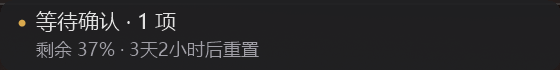
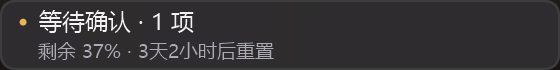
Refresh glass UI demos and native validation notes

Changed region(s): [[0.0, 0.0, 1.0, 1.0], [0.0607, 0.5714, 0.4857, 0.8571]]

diff --git a/docs/validation.md b/docs/validation.md
@@ -8,18 +8,18 @@
 | --- | --- |
 | C# WinForms 旧版，248 × 40 DIP | 已在 Windows 11、175% 缩放下验证真实显示、展开、收起、两次冷启动、重复启动与正常退出；两次主进程退出码均为 0，Node 子进程结束 |
 | Node 数据组件 | 13 项测试通过，覆盖事件归纳、流式回复摘要、工具动作标题、命令内容、重置倒计时、空闲任务标题、等待优先级、失效状态及命名管道传输 |
-| C# 当前源码，320 × 40 DIP | 本次最终 EXE 已启动并复制到项目根目录，使用原快捷方式再次启动；实机预览检查状态点、紧凑空闲布局、三任务列表、系统圆角和深色 Acrylic |
-| 当前原生布局测试 | 闪烁回归先红后绿；本机最终源码通过 13 项数据测试与原生窗口、100% / 175% 布局检查，原生回归连续 10 次通过。本次修复源码 `9c9750d` 的 [GitHub Actions](https://github.com/2cat/CodexPeek/actions/runs/36802150700) 已通过 |
-| 本次启动和交互 | 根目录版本接入实时数据；样式优化阶段验证重复启动退出码为 0，保持一份应用和一份数据组件、Escape 收起、Tab 在任务间移动。本次闪烁修复的最终 EXE 使用日常参数冷启动，并验证入口位于实际任务栏上方 |
+| C# 当前源码，320 × 40 DIP | 最终玻璃版本已部署到项目根目录并以日常参数启动；175% 实机检查入口 Acrylic、圆角边缘、大字号卡片、空闲面板和 12 任务滚动列表 |
+| 当前原生布局测试 | 扩展到玻璃窗口 frame、100% / 175% 布局、显示后无横向滚动、刷新及增删任务保留滚动位置。`017a1a1` 在本机通过原生回归；最终背景绘制源码 `a898fcb` 的测试 EXE 本机被应用控制拦截，其 [Windows CI](https://github.com/2cat/CodexPeek/actions/runs/36803968940) 的 13 项数据测试和全部原生回归通过 |
+| 本次启动和交互 | 根目录最终 EXE 已多次启动；演示模式检查卡片、滚动、Tab 焦点及 Escape 收起，日常启动不带 review / preview 参数。真实任务栏被提升后入口仍可命中，owner 与任务栏一致；重复启动退出码为 0，实时运行保持一份主程序和一份 Node 数据组件 |
 | 开机自启 | 未配置；启动文件夹、Run 注册表和计划任务中未发现此工具的自启项 |
 
 开发机在用本次新版 EXE 的 SHA-256：
 
 ```text
[2 lines of base64/hex data omitted]
 ```
 
[2 lines of base64/hex data omitted]
 
 新文件的信任判定为何不同仍未确认。最终应用可运行不代表每次本地重编译后的文件都会获准运行。新构建需要独立验收，不能沿用旧文件结果。仓库不提交这些二进制；编译器会生成不同的文件标识，不承诺重建出相同 SHA-256。
 
@@ -27,7 +27,7 @@ E5057B27BAB418BA0AECE4946806D1BE82D2F982995CDDC44D8DFEAF0FC23941
 
 旧版在实际 2560 × 1600 桌面、175% 缩放时，任务栏高 84 个物理像素；组件为 434 × 70，位于任务栏现有空间中。额度倒计时和空闲标题已检查实际显示。多任务／等待确认排版使用演示数据验证，未为了测试而制造真实审批操作。
 
-本次新版在相同桌面上，入口为 560 × 70，位置为 `(14,1523)`，保留任务栏现有高度。空闲弹窗为 735 × 280；三任务面板为 735 × 766。无损原生截图用于 README，内容全部为演示数据。先尝试系统 Acrylic，再增加深色底层限制亮背景对次要文字的影响；确认系统圆角、细边框与背景透色，未将 API 返回成功当作视觉验收。
+本次玻璃版本在相同桌面上，入口为 560 × 70，位置为 `(14,1523)`，保留任务栏现有高度。空闲弹窗为 805 × 322；三任务面板为 805 × 917。无损原生截图用于 README，内容全部为演示数据。入口移除整窗透明度，复用系统 Acrylic 与圆角；面板增大字体并使用圆角卡片。实机发现并修复显示后卡片宽度导致的横向滚动，以及卡片间隙局部重绘的灰色条带；最终 PNG 已检查。没有用 DWM API 返回成功代替视觉验收。
 
 实际缩放下的操作和截图使用 `--review` 暴露窗口以便观察；日常快捷方式不带该参数，不增加 Alt-Tab 窗口。启动快捷方式后已确认主程序和 Node 数据组件均从 `CodexPeek` 根目录运行。
 

diff --git a/docs/design.md b/docs/design.md
@@ -27,11 +27,13 @@
 
 ## 窗口与交互
 
-使用免激活的 WinForms 浮动窗口（`WS_POPUP`）贴在主屏任务栏左侧空白区域。通过 Win32 owner 关系让系统保持入口位于任务栏上方，显示后及任务栏句柄变化时重新关联；不再每 750 毫秒抢占置顶层级。入口为 320 × 40 DIP，按可用空间收窄；不足 180 DIP 时退到托盘。展开面板宽 420 DIP，空闲高度为 160 DIP，有任务时按任务数量展开，最多占可用屏幕高度的 70%。
+使用免激活的 WinForms 浮动窗口（`WS_POPUP`）贴在主屏任务栏左侧空白区域。通过 Win32 owner 关系让系统保持入口位于任务栏上方，显示后及任务栏句柄变化时重新关联；不再每 750 毫秒抢占置顶层级。入口为 320 × 40 DIP，按可用空间收窄；不足 180 DIP 时退到托盘。展开面板宽 460 DIP，空闲高度为 184 DIP，有任务时按任务数量展开，最多占可用屏幕高度的 70%。
 
 入口的小圆点仅表示状态：蓝色运行、黄色等待确认或回复、红色异常、灰色空闲或未同步，不表示额度、进度或重置次数。接口没有提供历史重置次数，当前没有新增重置计数。
 
-入口使用系统消息字体、常规字重和轻微透明底色。面板通过 DWM 使用原生圆角、边框及 Acrylic；深色底层限制背景亮度，保持次要文字可读。关闭系统透明效果或启用高对比度时，启动时使用实色背景；不支持系统材质时也使用实色背景。空闲面板省略零任务计数，连接信息简化为“已连接”。
+入口和面板通过 DWM 使用原生圆角、边框及 Acrylic；保留原生 frame 并移除标题栏，不使用整窗 Opacity，避免文字跟着变淡。正常材质路径不设置窗口 Region；材质不可用时入口回退到实色圆角。深色底层限制背景亮度，保持次要文字可读。关闭系统透明效果或启用高对比度时，启动时使用实色背景；不支持系统材质时也使用实色背景。
+
+入口的两行字号为 13 / 11 DIP。任务卡片高 124 DIP、间隔 8 DIP、圆角 8 DIP；标题、执行详情、最近进展和计时字号为 14 / 13 / 12 / 11 DIP。整个卡片可点击，键盘焦点显示圆角蓝色描边。列表独立绘制玻璃底层，避免透明 Panel 重画父窗口产生间隙条带。卡片随实际滚动区域收窄，数据更新和任务增删完成布局后恢复滚动位置。空闲面板省略零任务计数，连接信息简化为“已连接”。
 
 点击展开、Escape / 失焦收起，点击任务通过 `codex://threads/<id>` 打开原会话。批准操作和回复用户问题始终在 Codex 中完成。首版没有机器人、自动审批、远程设备汇总或开机自启。
 
